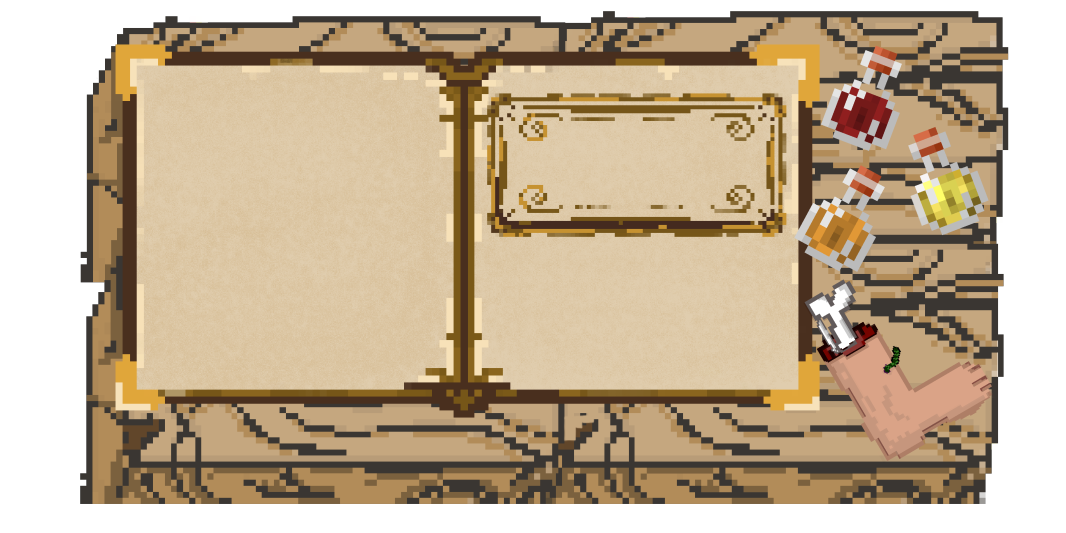
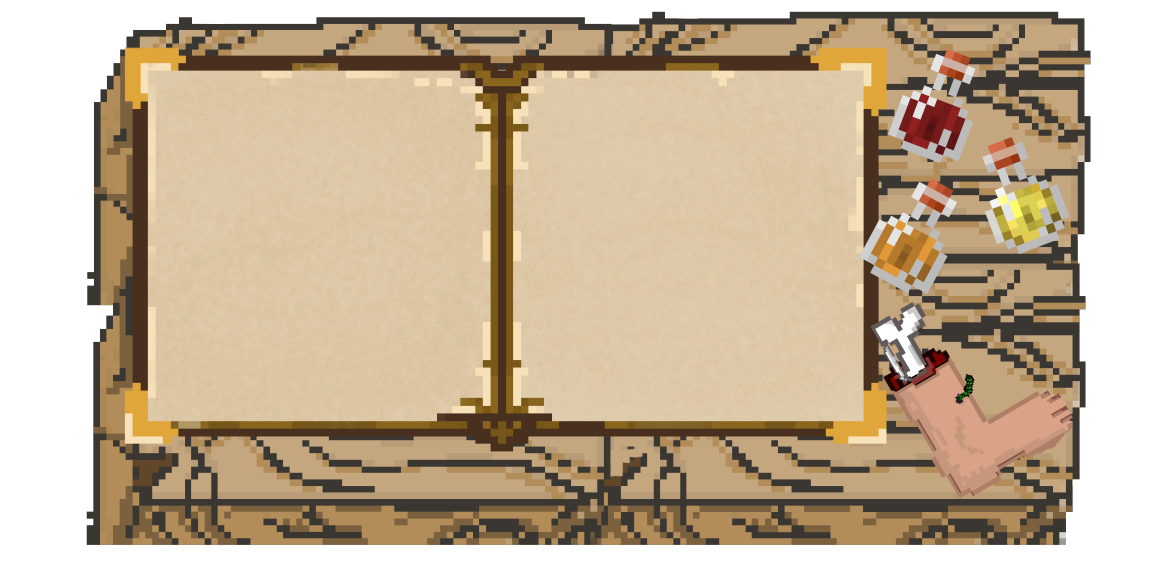
Fix book and desk background images with internal components positions

Changed region(s): [[0.4334, 0.1501, 0.743, 0.4503], [0.5263, 0.03, 0.6811, 0.06], [0.7739, 0.03, 0.8049, 0.06]]

diff --git a/index.html b/index.html
@@ -593,46 +593,53 @@
     <div class="formula-section">
       <h1 class="formula-heading">Spellbook Of Formulas</h1>
       <div class="formula-main-container">
-        <div class="book-container">asdhjasl</div>
-        <div class="potion-container">
-          <div class="potions-headings">
-            <h2 class="formula-sub-heading">Pregnancy & Obesity</h2>
-            <h2 class="formula-sub-heading">Blood</h2>
-            <h2 class="formula-sub-heading">Renal & Inflammatory Markers</h2>
+        <div class="book">
+          <div class="potion-container">
+            <div class="potions-headings">
+              <h2 class="formula-sub-heading">Pregnancy & Obesity</h2>
+              <h2 class="formula-sub-heading">Blood</h2>
+              <h2 class="formula-sub-heading">Renal & Inflammatory Markers</h2>
+            </div>
+            <div class="formulas-container">
+              <div class="formulas fat">
+                <div
+                  class="formula-button formula-button-1"
+                  id="Gestational-EDD"
+                >
+                  Gestational age + EDD
+                </div>
+                <div
+                  class="formula-button formula-button-1"
+                  id="Ideal_weight-Adjusted_weight-waist_to_hips-BMI"
+                >
+                  Ideal/Adjusted Weight + Waist to Hips Ratio + BMI
+                </div>
+              </div>
+              <div class="formulas blood">
+                <div class="formula-button formula-button-2" id="ASCVD">
+                  ASCVD Risk
+                </div>
+                <div class="formula-button formula-button-2" id="TSAT-Mentz">
+                  TSAT + Mentz
+                </div>
+              </div>
+              <div class="formulas renel">
+                <div class="formula-button formula-button-3" id="eGFR-CrCl">
+                  eGFR + CrCl
+                </div>
+                <div class="formula-button formula-button-3" id="CRP-ESR">
+                  CRP + ESR
+                </div>
+              </div>
+            </div>
           </div>
-          <div class="formulas-container">
-            <div class="formulas fat">
-              <div class="formula-button formula-button-1" id="Gestational-EDD">
-                Gestational age + EDD
-              </div>
-              <div
-                class="formula-button formula-button-1"
-                id="Ideal_weight-Adjusted_weight-waist_to_hips-BMI"
-              >
-                Ideal/Adjusted Weight + Waist to Hips Ratio + BMI
-              </div>
+          <div class="formulas-results-inputs">
+            <div class="formula-results-container">
+              <div class="formula-result"></div>
             </div>
-            <div class="formulas blood">
-              <div class="formula-button formula-button-2" id="ASCVD">
-                ASCVD Risk
-              </div>
-              <div class="formula-button formula-button-2" id="TSAT-Mentz">
-                TSAT + Mentz
-              </div>
+            <div class="formula-inputs-container">
+              <div class="formula-inputs">Inputs</div>
             </div>
-            <div class="formulas renel">
-              <div class="formula-button formula-button-3" id="eGFR-CrCl">
-                eGFR + CrCl
-              </div>
-              <div class="formula-button formula-button-3" id="CRP-ESR">
-                CRP + ESR
-              </div>
-            </div>
-          </div>
-        </div>
-        <div class="formulas-results-inputs">
-          <div class="formula-results-container">
-            <div class="formula-result"></div>
           </div>
         </div>
       </div>

diff --git a/style_formulas.css b/style_formulas.css
@@ -9,32 +9,36 @@
   justify-content: center;
 }
 .formula-main-container {
+  position: relative;
   width: 90%;
-  min-height: 600px;
-  background: url("Assets/images/full_desk.webp");
-  background-position: center;
-  background-size: cover;
-  background-repeat: no-repeat;
+  aspect-ratio: 16 / 9;
+  background: url("Assets/images/desk_no_edges.webp") no-repeat center center;
+  background-size: contain;
+  margin: auto;
   display: flex;
   justify-content: space-between;
   user-select: none;
   position: relative;
-  background-color: lightblue;
 }
-.book-container {
-  position: fixed;
-  background-color: red;
-  left: 12%;
+.book {
+  display: flex;
+  justify-content: space-around;
+  align-items: center;
+  background: url("Assets/images/book_border.webp") center center no-repeat;
+  background-size: contain;
+  width: 75%;
 }
+
 .formula-heading {
   margin: 1.2em 0 1em;
 }
 .potion-container {
-  position: absolute;
+  width: 40%;
+  height: 55%;
   display: flex;
   flex-direction: column;
-  width: 25%;
   text-align: center;
+  /* background-color: lightcoral; */
 }
 .potions-headings {
   display: flex;
@@ -90,12 +94,12 @@
   transform: translate(4px, 4px);
 }
 .formulas-results-inputs {
-  width: 45%;
+  width: 40%;
+  height: 55%;
   display: flex;
   flex-direction: column;
   justify-content: space-around;
   align-items: center;
-  padding: 0 1em;
 }
 .formula-sub-heading {
   font-size: 1.6em;
@@ -112,11 +116,18 @@
   padding-top: 1em;
 }
 .formula-results-container {
-  position: absolute;
-  right: 28.5%;
-  top: 21.5%;
+  width: 100%;
+  height: 50%;
+  background: url("Assets/images/results_border.webp") center center no-repeat;
+  background-size: contain;
   text-align: center;
-  width: 340px;
+  display: flex;
+  justify-content: center;
+  align-items: center;
+  border-radius: 1em;
+}
+.formula-result {
+  width: 75%;
 }
 .separator-formulas {
   position: absolute;

diff --git a/script.js b/script.js
@@ -196,31 +196,28 @@ submitButton.addEventListener("click", function () {
     };
     console.log(globalVars);
     formulas = {
-      "Gestational-EDD": "• " + GA(5, 5, 2024),
-      "Ideal_weight-Adjusted_weight-waist_to_hips-BMI": `• ${
+      "Gestational-EDD": "" + GA(5, 5, 2024),
+      "Ideal_weight-Adjusted_weight-waist_to_hips-BMI": `${
         ABW(globalVars["Height"], globalVars["Weight"], globalVars["Gender"])[0]
-      } \n• ${W_to_H(
+      } \n${W_to_H(
         globalVars["Waist"],
         globalVars["Hips"],
         globalVars["Gender"]
-      )} \n• ${BMI(globalVars["Weight"], globalVars["Height"])}`,
+      )} \n${BMI(globalVars["Weight"], globalVars["Height"])}`,
       // ASCVD: ASCVD,
-      "TSAT-Mentz": `• ${TSAT(7, 40, globalVars["Gender"])} \n• ${Mentz(
-        91,
-        7
-      )}`,
-      "eGFR-CrCl": `• ${GFR(
+      "TSAT-Mentz": `${TSAT(7, 40, globalVars["Gender"])} \n${Mentz(91, 7)}`,
+      "eGFR-CrCl": `${GFR(
         globalVars["Age"],
         80,
         globalVars["Gender"]
-      )} \n• ${CrCl(
+      )} \n${CrCl(
         80,
         globalVars["Age"],
         globalVars["Height"],
         globalVars["Weight"],
         globalVars["Gender"]
       )}`,
-      "CRP-ESR": `• ${CRP(globalVars["Age"], globalVars["Gender"])} \n• ${ESR(
+      "CRP-ESR": `${CRP(globalVars["Age"], globalVars["Gender"])} \n${ESR(
         globalVars["Age"],
         globalVars["Gender"]
       )}`,

diff --git a/test.css b/test.css
@@ -1,51 +1,27 @@
-body {
-  display: flex;
-  justify-content: center;
-  align-items: center;
-  height: 100vh;
-}
-.T,
-.F {
-  display: flex;
-  justify-content: center;
-  align-items: center;
-  /* background-color: red; */
-  background-image: url("Assets/images/T.svg");
-  background-position: center;
-  background-size: cover;
-  background-repeat: no-repeat;
-  width: 500px;
-  height: 200px;
+.book-container {
   position: relative;
-}
-.F {
-  background-image: url("Assets/images/F.svg");
+  width: 100%;
+  max-width: 900px; /* Adjust as needed */
+  aspect-ratio: 16 / 9; /* Adjust based on your image's aspect ratio */
+  background: url("Assets/images/full_desk.webp") no-repeat center center;
   background-size: contain;
+  margin: auto;
 }
-.TO {
-  display: block;
-  font-size: 2em;
-}
-input {
-  width: 90px;
-  height: 80px;
+
+.left-page,
+.right-page {
   position: absolute;
+  top: 16%; /* Adjust to fit within the book pages */
+  width: 30%;
+  height: 54%; /* Adjust based on the book's page */
+  background-color: rgba(255, 255, 255, 0.672); /* Slight transparency */
+  /* padding: 10px; */
 }
-.in1T {
-  left: 55px;
-  top: calc(52% - 30px);
+
+.left-page {
+  left: 13%;
 }
-.in2T {
-  left: 205px;
-  top: calc(52% - 30px);
-}
-.in1F {
-  width: 70px;
-  height: 60px;
-  right: 26%;
-  font-size: 1.6em;
-}
-.in2F {
-  right: 48%;
-  margin-bottom: 10px;
+
+.right-page {
+  right: 25%;
 }

diff --git a/test.html b/test.html
@@ -7,15 +7,9 @@
     <title>Document</title>
   </head>
   <body>
-    <div class="conversions">
-      <div class="T">
-        <input class="TO in1T" placeholder="Insert" type="text" />
-        <input class="TO in2T" placeholder="Unit" type="text" />
-      </div>
-      <div class="F">
-        <input class="TO in1F" placeholder="Unit" type="text" />
-        <input class="TO in2F" placeholder="Insert" type="text" />
-      </div>
+    <div class="book-container">
+      <div class="book-page left-page">Left Content</div>
+      <div class="book-page right-page">Right Content</div>
     </div>
   </body>
 </html>
